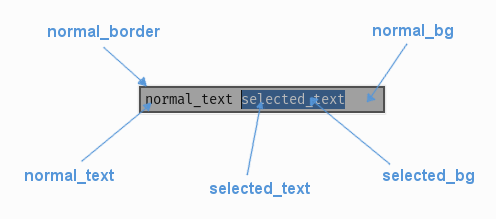
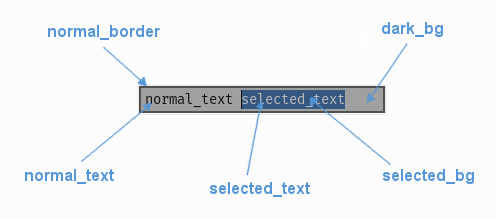
fix remaining incorrect references to normal_bg in text_entry_line docs.

Changed region(s): [[0.7258, 0.1096, 0.9375, 0.1918]]

diff --git a/docs/source/theme_reference/theme_text_entry_line.rst b/docs/source/theme_reference/theme_text_entry_line.rst
@@ -66,15 +66,15 @@ Here is an example of a text entry line block in a JSON theme file using all the
    :linenos:
 
     {
-        "button":
+        "text_entry_line":
         {
             "colours":
             {
-                "normal_bg": "#25292e",
+                "dark_bg": "#25292e",
                 "selected_bg": "#55595e",
                 "normal_text": "#AAAAAA",
                 "selected_text": "#FFFFFF",
-                "border": "#FFFFFF"
+                "normal_border": "#FFFFFF"
             },
             "font":
             {
@@ -89,6 +89,8 @@ Here is an example of a text entry line block in a JSON theme file using all the
             },
             "misc":
             {
+                "shape": "rounded_rectangle",
+                "shape_corner_radius": 5,
                 "border_width": "2",
                 "shadow_width": "2",
                 "padding": "6,4"
